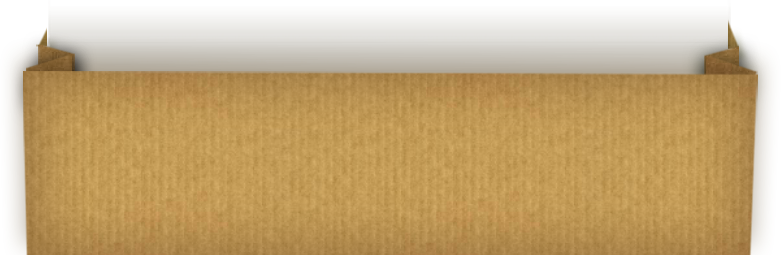
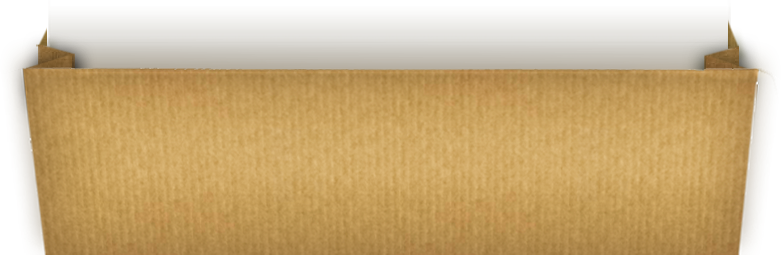
Updated images for homepage

diff --git a/server/app/assets/javascripts/home.js b/server/app/assets/javascripts/home.js
@@ -330,7 +330,6 @@ $(function(){
         vScrollbar: false
       });
       //setTimeout(200, function(){alert(200)});
-      
       return this;        
     },
     onResize: function() {
@@ -345,11 +344,14 @@ $(function(){
     }
   });
   var FoldersView = Backbone.View.extend({
-    el: '.folders > ul',
+    el: '.folders-wrapper',
+    optimalSize: 400,       /* optimal size for one folder */
     initialize: function() {
+      var that = this;
       this.metadataList = this.options.metadataList;
       this.collection.bind('add', this.addOne, this);
       this.collection.bind('reset', this.addAll, this);
+      $(window).resize(function() { that.resize(); });
     },
     addOne: function(model, options) {
       // Add a new folder given its model
@@ -358,10 +360,26 @@ $(function(){
         collection: this.metadataList,
       });
       // render & insert new folder before '+'
-      folder.render().$el.insertBefore($('.add-folder'));
+      folder.render().$el.insertBefore(this.$el.find('.add-folder'));
     },
     addAll: function() {
       this.collection.each(this.addOne, this);
+      this.resize();
+    },
+    resize: function(e) {
+      var wrapperWidth  = this.$el.width() + 1;
+      var numFolders    = this.collection.size() + 1; 
+      var numFoldersPerScreen = Math.round(wrapperWidth / this.optimalSize);
+      var folderMargin  = 0; // 1.5em
+      var folderWidth   = ( wrapperWidth - 2 * folderMargin * numFolders ) / numFoldersPerScreen;
+      this.$el.find('.folder').css({
+        width: folderWidth + 'px', 
+        margin: '0 ' + folderMargin/16 + 'em'
+      });
+      this.$el.find('.folders').css({
+//        padding: ,
+        width: (folderWidth + 2 * folderMargin) * numFolders + 'px' 
+      });
     }
   }); 
 //=============================== Manager's view ==============================
@@ -381,14 +399,17 @@ $(function(){
       this.tagList.fetch();
       this.metadataList.fetch({
         success: function() {
-          that.scroller = new iScroll('my-folders',{
+//          that.tagList.length
+          that.scroller = new iScroll('my-folders-wrapper',{
             vScroll:false,
             fadeScrollbar:true,
             hideScrollbar:true,
             lockDirection:true,
             hScrollbar: false,
             bounce: true,
-            snap: 'li'
+            snap: 'li',
+            overflowHidden: false,
+            force2D: true
           });
         }
       });

diff --git a/server/app/assets/stylesheets/home.css.scss b/server/app/assets/stylesheets/home.css.scss
@@ -5,11 +5,6 @@ $users-width:   210px;
 /* CSS Document */
 html, body { 
   position:   relative; 
-  background: url(/assets/bg-light.png) top center no-repeat,  
-              url(/assets/bg-shadow.png) bottom no-repeat, 
-              url(/assets/desk.png); 
-  background-size: auto,cover,auto;
-  box-shadow: inset 2px 0px 100px rgba(0,0,0,0.4); 
   width: 100%; 
   height:100%; 
   overflow:   hidden; 
@@ -100,12 +95,18 @@ html, body {
 #tinymask{position:absolute; display:none; top:0; left:0; height:100%; width:100%; background:#000000; z-index:1500;}
 #tinycontent{background:#ffffff; font-size:1em;}
 
-.desktop { position: absolute; left: 180px; top: 0px; right: 0px; height: 100%; ; overflow: hidden;}
-.folders { width: 100%; height: 100%; overflow: hidden; }
-.folders > ul { height: 100%; width: 101%;}
-.folder { float:left; height:100%; width: 47.5%; position:relative; margin: 0 1.25% 0 1.25%;}
-.folder:first { margin-left: 2.5%;}
+.desktop { position: absolute; left: 180px; top: 0px; right: 0px; height: 100%; ; overflow: hidden;
+  background: url(/assets/bg-light.png) top center no-repeat,  
+              url(/assets/bg-shadow.png) bottom no-repeat, 
+              url(/assets/desk.png); 
+  background-size: auto,cover,auto;
+  box-shadow: inset 2px 0px 100px rgba(0,0,0,0.4); 
+}
+.folders-wrapper { width: 89%; height: 100%; margin: 0 auto; }
+.folders { float: left; width: 101%; height: 100%; overflow: hidden; } /* the width will be determined at runtime*/
+.folders > ul { height: 100%; width: 100%; display: block; float: left; width: 100%; height: 100%;}
+.folder { display: block; float:left; height:100%; width: 47.5%; position: relative; margin: 0 1.25% 0 1.25%;}
 
-.add-tag { position:absolute; bottom:0px; width: 100%; height:96px; background:url(/assets/tagadd-box.png) no-repeat center bottom; background-size: 90% 90%; }
+.add-tag { position:absolute; bottom:0px; width: 100%; height:96px; background:url(/assets/new/tagadd-box.png) no-repeat center bottom; background-size: 90% 90%; }
 .add-tag span{width:24px; height:23px;  position:relative; left: 50%; top: 50%; margin: 0 0 0 -12px;}
 .add-tag span a img{ width:24px; height:23px; }
